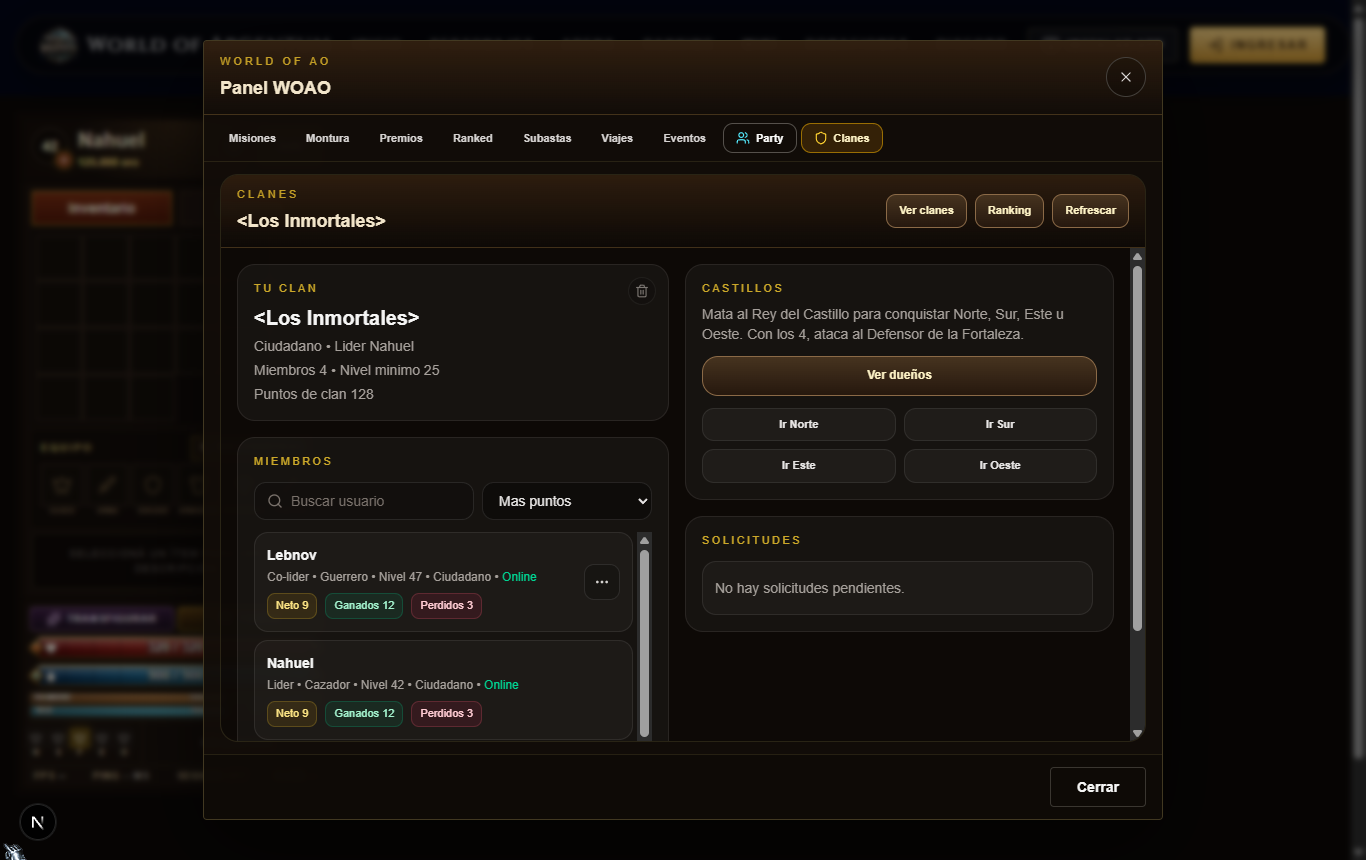
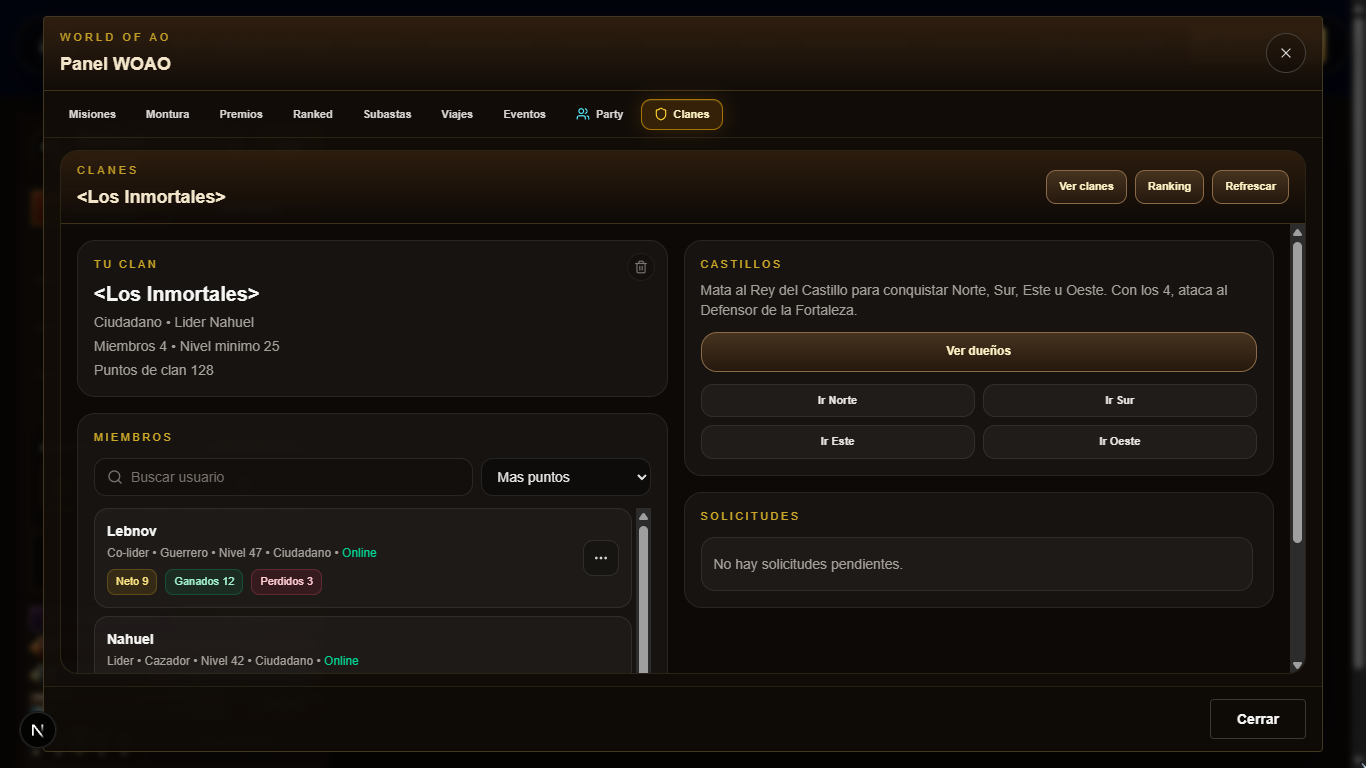
Panel WOAO: mismo tamaño en todas las pestañas y transición al cambiar
- El panel mide siempre lo mismo (hasta 1280 × 820, o la pantalla menos 32 px): antes cambiaba de tamaño en cada
  pestaña, entre 860 × 680 y 1334 × 744 en una pantalla de 1366 × 768.
- Marco dorado de la pestaña activa que se desliza hasta la pestaña elegida (también entre líneas en celular).
- El contenido entra desde el lado hacia donde se movió la pestaña (a la derecha, desde la derecha) y aparece de a
  poco; al abrir, el panel aparece con un leve acercamiento. Con "reducir movimiento" solo se funde.
- Barra con role="tablist"/"tab", aria-selected y foco visible con teclado.
- Party usa el ancho nuevo: tarjeta más ancha y miembros en dos columnas.
- Capturas y GIF de antes y después en docs/panel-woao/.

diff --git a/frontend/components/WoaoHubModal.tsx b/frontend/components/WoaoHubModal.tsx
@@ -1796,40 +1796,74 @@ export default function WoaoHubModal({
         setSelectedMountId(ownedMounts.find((mount) => mount.active)?.id ?? ownedMounts[0]?.id ?? null);
     }, [ownedMounts, selectedMountId]);
 
-    const hubHeightClass =
-        tab === "eventos"
-            ? "h-[min(760px,calc(100vh-32px))]"
-            : tab === "subastas"
-              ? "h-[min(760px,calc(100vh-32px))]"
-            : tab === "ranked"
-              ? "h-[min(820px,calc(100vh-24px))]"
-            : tab === "premios"
-              ? "h-[min(820px,calc(100vh-24px))]"
-            : tab === "montura"
-              ? "h-[min(680px,calc(100vh-32px))]"
-            : tab === "viajes"
-              ? "h-[min(680px,calc(100vh-32px))]"
-            : tab === "clanes"
-              ? "h-[min(780px,calc(100vh-32px))]"
-              : "h-[min(620px,calc(100vh-32px))]";
-    const hubWidthClass =
-        tab === "eventos"
-            ? "md:w-[min(1140px,calc(100vw-32px))]"
-            : tab === "subastas"
-              ? "md:w-[min(1280px,calc(100vw-32px))]"
-            : tab === "ranked"
-              ? "md:w-[min(1420px,calc(100vw-28px))]"
-            : tab === "premios"
-              ? "md:w-[min(1320px,calc(100vw-28px))]"
-              : tab === "montura"
-                ? "md:w-[min(1220px,calc(100vw-32px))]"
-                : tab === "misiones"
-                  ? ""
-                : tab === "viajes"
-                  ? "md:w-[min(860px,calc(100vw-32px))]"
-                : tab === "party" || tab === "clanes"
-                  ? "md:w-[min(960px,calc(100vw-32px))]"
-                  : "md:w-[min(620px,calc(100vw-32px))]";
+    // Marco dorado de la pestaña activa: se mide la pestaña y el marco se desliza hasta ella (también cuando la barra
+    // pasa a dos líneas en celular). La primera vez aparece en su lugar, sin deslizarse desde la esquina.
+    const tabBarRef = React.useRef<HTMLDivElement | null>(null);
+    const tabButtonRefs = React.useRef(new Map<WoaoHubTab, HTMLButtonElement>());
+    const [tabIndicator, setTabIndicator] = React.useState<{ x: number; y: number; width: number; height: number } | null>(
+        null,
+    );
+    const [isTabIndicatorAnimated, setIsTabIndicatorAnimated] = React.useState(false);
+
+    React.useLayoutEffect(() => {
+        const measure = () => {
+            const button = tabButtonRefs.current.get(tab);
+
+            if (!button) {
+                return;
+            }
+
+            setTabIndicator((current) => {
+                const next = {
+                    x: button.offsetLeft,
+                    y: button.offsetTop,
+                    width: button.offsetWidth,
+                    height: button.offsetHeight,
+                };
+
+                return current &&
+                    current.x === next.x &&
+                    current.y === next.y &&
+                    current.width === next.width &&
+                    current.height === next.height
+                    ? current
+                    : next;
+            });
+        };
+
+        measure();
+
+        const tabBar = tabBarRef.current;
+        if (!tabBar || typeof ResizeObserver === "undefined") {
+            return;
+        }
+
+        const observer = new ResizeObserver(measure);
+        observer.observe(tabBar);
+        return () => observer.disconnect();
+    }, [tab]);
+
+    React.useEffect(() => {
+        if (!tabIndicator || isTabIndicatorAnimated) {
+            return;
+        }
+
+        const frame = window.requestAnimationFrame(() => setIsTabIndicatorAnimated(true));
+        return () => window.cancelAnimationFrame(frame);
+    }, [isTabIndicatorAnimated, tabIndicator]);
+
+    // El contenido nuevo entra desde el lado hacia donde se movió la pestaña: a la derecha, desde la derecha.
+    const [tabTransition, setTabTransition] = React.useState<{ tab: WoaoHubTab; direction: -1 | 0 | 1 }>({
+        tab,
+        direction: 0,
+    });
+
+    if (tabTransition.tab !== tab) {
+        const previousIndex = TABS.findIndex((entry) => entry.id === tabTransition.tab);
+        const nextIndex = TABS.findIndex((entry) => entry.id === tab);
+        setTabTransition({ tab, direction: nextIndex > previousIndex ? 1 : nextIndex < previousIndex ? -1 : 0 });
+    }
+
     const contentOverflowClass =
         tab === "premios" || tab === "ranked" || tab === "montura" || tab === "eventos" || tab === "subastas" || tab === "viajes" || tab === "clanes" ? "overflow-hidden" : "overflow-y-auto";
 
@@ -1850,8 +1884,9 @@ export default function WoaoHubModal({
             className="fixed inset-0 z-[84] flex items-center justify-center bg-black/45 px-4 backdrop-blur-[3px]"
             onClick={onClose}
         >
+            {/* Mismo tamaño para todas las pestañas: el panel no salta al cambiar de una a otra. */}
             <div
-                className={`flex ${hubHeightClass} w-[min(900px,calc(100vw-32px))] flex-col overflow-hidden rounded border border-amber-200/20 bg-[#120c08]/96 text-stone-100 shadow-[0_28px_90px_rgba(0,0,0,0.6)] ${hubWidthClass}`}
+                className="woao-hub-open flex h-[min(820px,calc(100dvh-32px))] w-[min(1280px,calc(100vw-32px))] flex-col overflow-hidden rounded border border-amber-200/20 bg-[#120c08]/96 text-stone-100 shadow-[0_28px_90px_rgba(0,0,0,0.6)]"
                 onClick={(event) => event.stopPropagation()}
             >
                 <div className="flex items-center justify-between gap-4 border-b border-amber-200/10 bg-[linear-gradient(180deg,rgba(127,78,35,0.28),rgba(18,12,8,0))] px-4 py-3">
@@ -1873,26 +1908,56 @@ export default function WoaoHubModal({
                     </button>
                 </div>
 
-                <div className="flex flex-wrap gap-1 border-b border-amber-200/10 px-3 py-2">
-                    {TABS.map((entry) => (
-                        <button
-                            key={entry.id}
-                            type="button"
-                            onClick={() => onTabChange(entry.id)}
-                            className={`inline-flex items-center gap-1.5 rounded-[10px] px-3 py-1.5 text-[11px] font-semibold transition ${
-                                tab === entry.id
-                                    ? "border border-amber-400/50 bg-amber-500/15 text-amber-100"
-                                    : "border border-transparent text-stone-300 hover:border-stone-600 hover:text-white"
-                            }`}
-                        >
-                            {entry.icon}
-                            {entry.label}
-                        </button>
-                    ))}
+                <div className="border-b border-amber-200/10 px-3 py-2">
+                    <div ref={tabBarRef} role="tablist" aria-label="Secciones del Panel WOAO" className="relative flex flex-wrap gap-1">
+                        {tabIndicator ? (
+                            <span
+                                aria-hidden="true"
+                                className={`woao-tab-indicator pointer-events-none absolute left-0 top-0 rounded-[10px] border border-amber-400/55 bg-amber-500/15 ${
+                                    isTabIndicatorAnimated ? "woao-tab-indicator-animated" : ""
+                                }`}
+                                style={{
+                                    width: tabIndicator.width,
+                                    height: tabIndicator.height,
+                                    transform: `translate3d(${tabIndicator.x}px, ${tabIndicator.y}px, 0)`,
+                                }}
+                            />
+                        ) : null}
+                        {TABS.map((entry) => {
+                            const isActive = tab === entry.id;
+
+                            return (
+                                <button
+                                    key={entry.id}
+                                    ref={(element) => {
+                                        if (element) {
+                                            tabButtonRefs.current.set(entry.id, element);
+                                        } else {
+                                            tabButtonRefs.current.delete(entry.id);
+                                        }
+                                    }}
+                                    type="button"
+                                    role="tab"
+                                    aria-selected={isActive}
+                                    onClick={() => onTabChange(entry.id)}
+                                    className={`relative z-10 inline-flex items-center gap-1.5 rounded-[10px] border px-3 py-1.5 text-[11px] font-semibold transition-colors duration-200 focus-visible:outline focus-visible:outline-2 focus-visible:outline-offset-1 focus-visible:outline-amber-300/80 ${
+                                        isActive
+                                            ? "border-transparent text-amber-100"
+                                            : "border-transparent text-stone-300 hover:border-stone-600 hover:text-white"
+                                    }`}
+                                >
+                                    {entry.icon}
+                                    {entry.label}
+                                </button>
+                            );
+                        })}
+                    </div>
                 </div>
 
                 <div
-                    className={`min-h-0 flex-1 px-4 py-3 text-sm text-[#f2e5ca] ${contentOverflowClass}`}
+                    key={tab}
+                    className={`woao-tab-enter min-h-0 flex-1 px-4 py-3 text-sm text-[#f2e5ca] ${contentOverflowClass}`}
+                    style={{ "--woao-tab-dx": `${tabTransition.direction * 28}px` } as React.CSSProperties}
                 >
                     {tab === "party" ? partyPanel : null}
 

diff --git a/frontend/app/globals.css b/frontend/app/globals.css
@@ -249,9 +249,72 @@ html.cursor-dibujado
     text-shadow: 0 0 10px var(--elemental-glow), 0 2px 3px rgba(0, 0, 0, 0.95), 0 0 1px rgba(0, 0, 0, 1);
 }
 
+/* Panel WOAO (components/WoaoHubModal.tsx): el panel aparece con un leve acercamiento, el marco dorado se desliza a la
+   pestaña elegida y el contenido entra desde el lado hacia donde se movió (--woao-tab-dx: +28px, -28px o 0). */
+@keyframes woao-hub-open {
+    from {
+        opacity: 0;
+        transform: translate3d(0, 10px, 0) scale(0.985);
+    }
+    to {
+        opacity: 1;
+        transform: none;
+    }
+}
+
+@keyframes woao-tab-enter {
+    from {
+        opacity: 0;
+        transform: translate3d(var(--woao-tab-dx, 0px), 0, 0);
+    }
+    to {
+        opacity: 1;
+        transform: none;
+    }
+}
+
+@keyframes woao-fade-in {
+    from {
+        opacity: 0;
+    }
+    to {
+        opacity: 1;
+    }
+}
+
+.woao-hub-open {
+    animation: woao-hub-open 220ms cubic-bezier(0.22, 1, 0.36, 1) both;
+}
+
+.woao-tab-enter {
+    animation: woao-tab-enter 300ms cubic-bezier(0.22, 1, 0.36, 1) both;
+}
+
+.woao-tab-indicator {
+    box-shadow:
+        0 0 18px rgba(245, 158, 11, 0.16),
+        inset 0 1px 0 rgba(253, 230, 138, 0.12);
+}
+
+.woao-tab-indicator-animated {
+    transition:
+        transform 340ms cubic-bezier(0.22, 1, 0.36, 1),
+        width 340ms cubic-bezier(0.22, 1, 0.36, 1),
+        height 340ms cubic-bezier(0.22, 1, 0.36, 1);
+}
+
 @media (prefers-reduced-motion: reduce) {
     .bleed-heartbeat,
     .elemental-pulse {
         animation: none;
+    }
+
+    .woao-hub-open,
+    .woao-tab-enter {
+        animation: woao-fade-in 140ms ease-out both;
+    }
+
+    .woao-tab-indicator-animated {
+        transition: none;
     }
 }

diff --git a/frontend/components/InventoryFloatingPanel.tsx b/frontend/components/InventoryFloatingPanel.tsx
@@ -3232,7 +3232,7 @@ export default function InventoryFloatingPanel({
     // Party y Clanes son pestañas del Panel WOAO: su contenido se muestra dentro del panel, con la barra de
     // pestañas siempre visible para pasar a otra.
     const partyPanel = (
-                    <div className="mx-auto w-full max-w-xl overflow-hidden rounded-[18px] border border-amber-200/12 bg-black/25 text-stone-100">
+                    <div className="mx-auto w-full max-w-3xl overflow-hidden rounded-[18px] border border-amber-200/12 bg-black/25 text-stone-100">
                         <div className="flex items-center justify-between gap-4 border-b border-amber-200/10 bg-[linear-gradient(180deg,rgba(127,78,35,0.28),rgba(18,12,8,0))] px-4 py-3">
                             <div>
                                 <p className="text-[11px] uppercase tracking-[0.28em] text-amber-300/72">
@@ -3249,7 +3249,7 @@ export default function InventoryFloatingPanel({
                         <div className="space-y-3 px-4 py-4">
                             {partyMembers.length ? (
                                 <>
-                                    <div className="space-y-2">
+                                    <div className="grid gap-2 sm:grid-cols-2">
                                         {partyMembers.map((member) => {
                                             const isLeader =
                                                 typeof partyLeaderId !==
